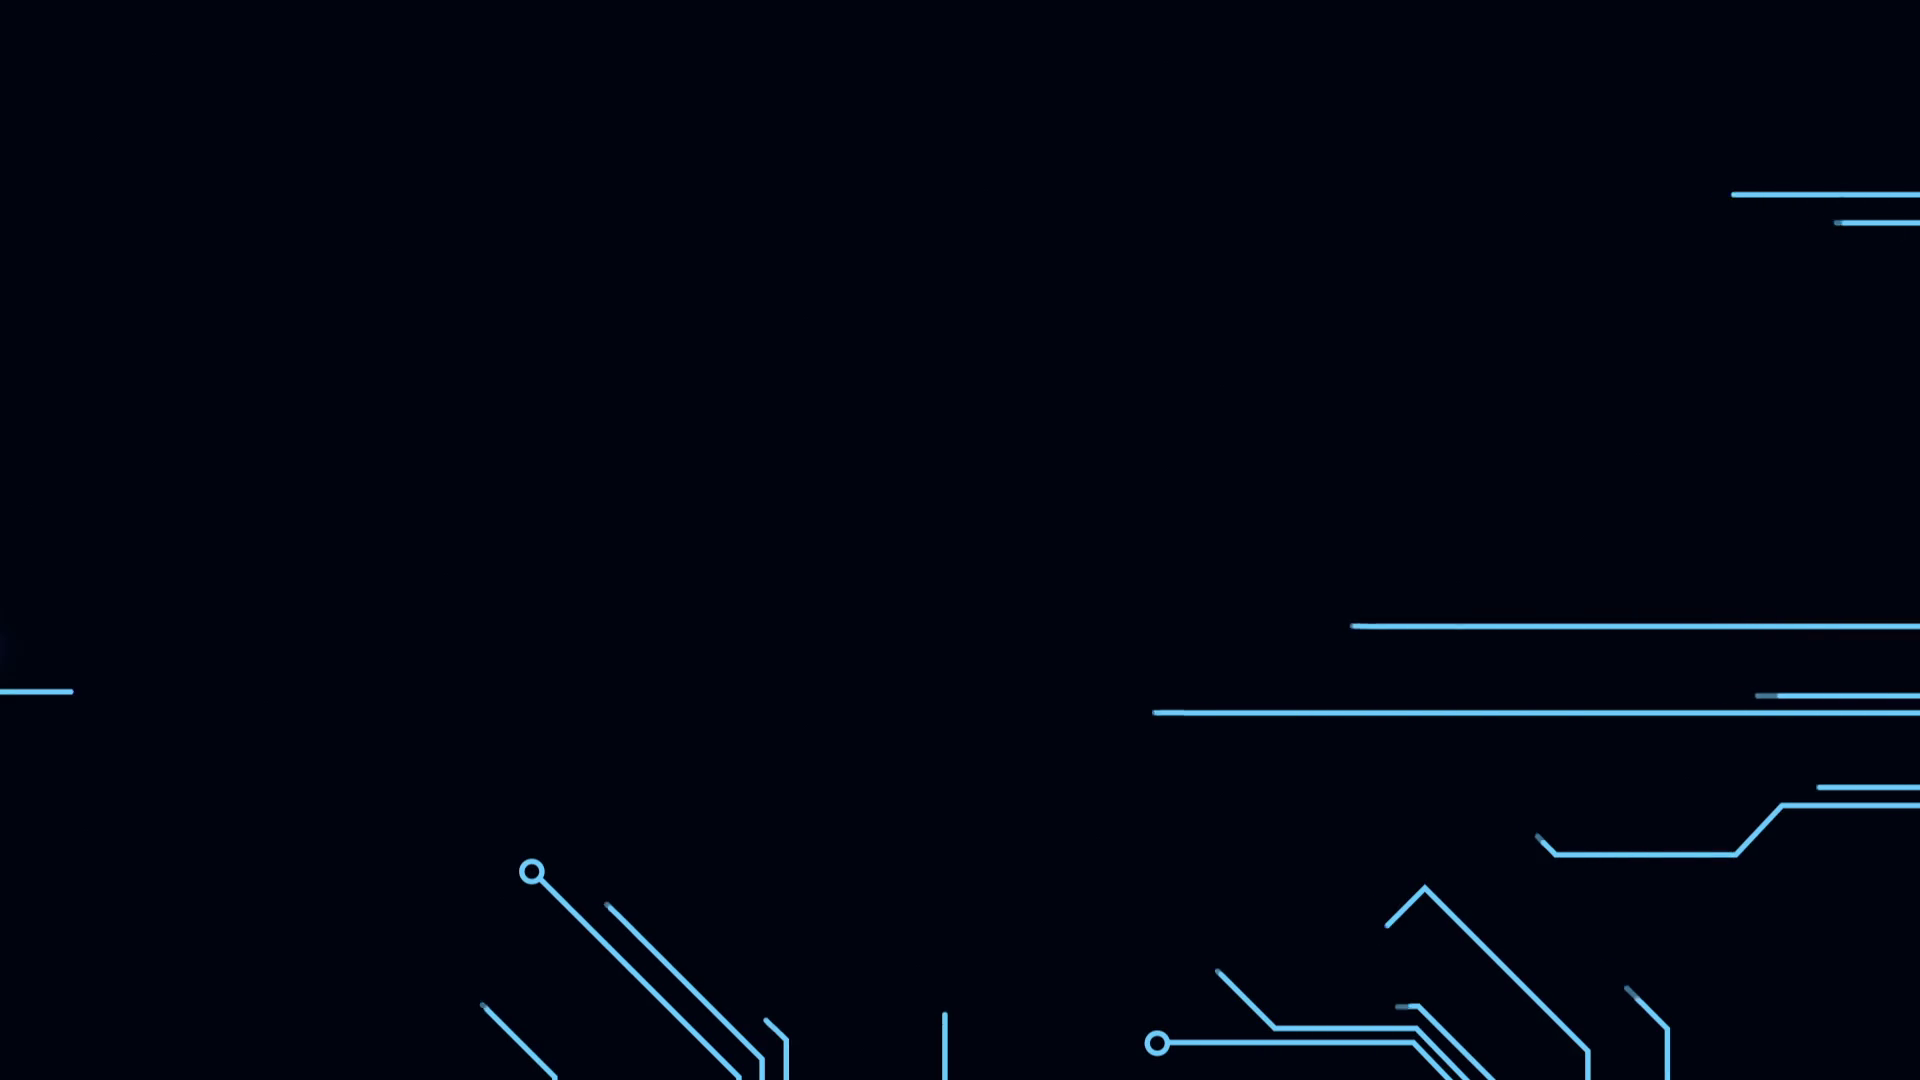
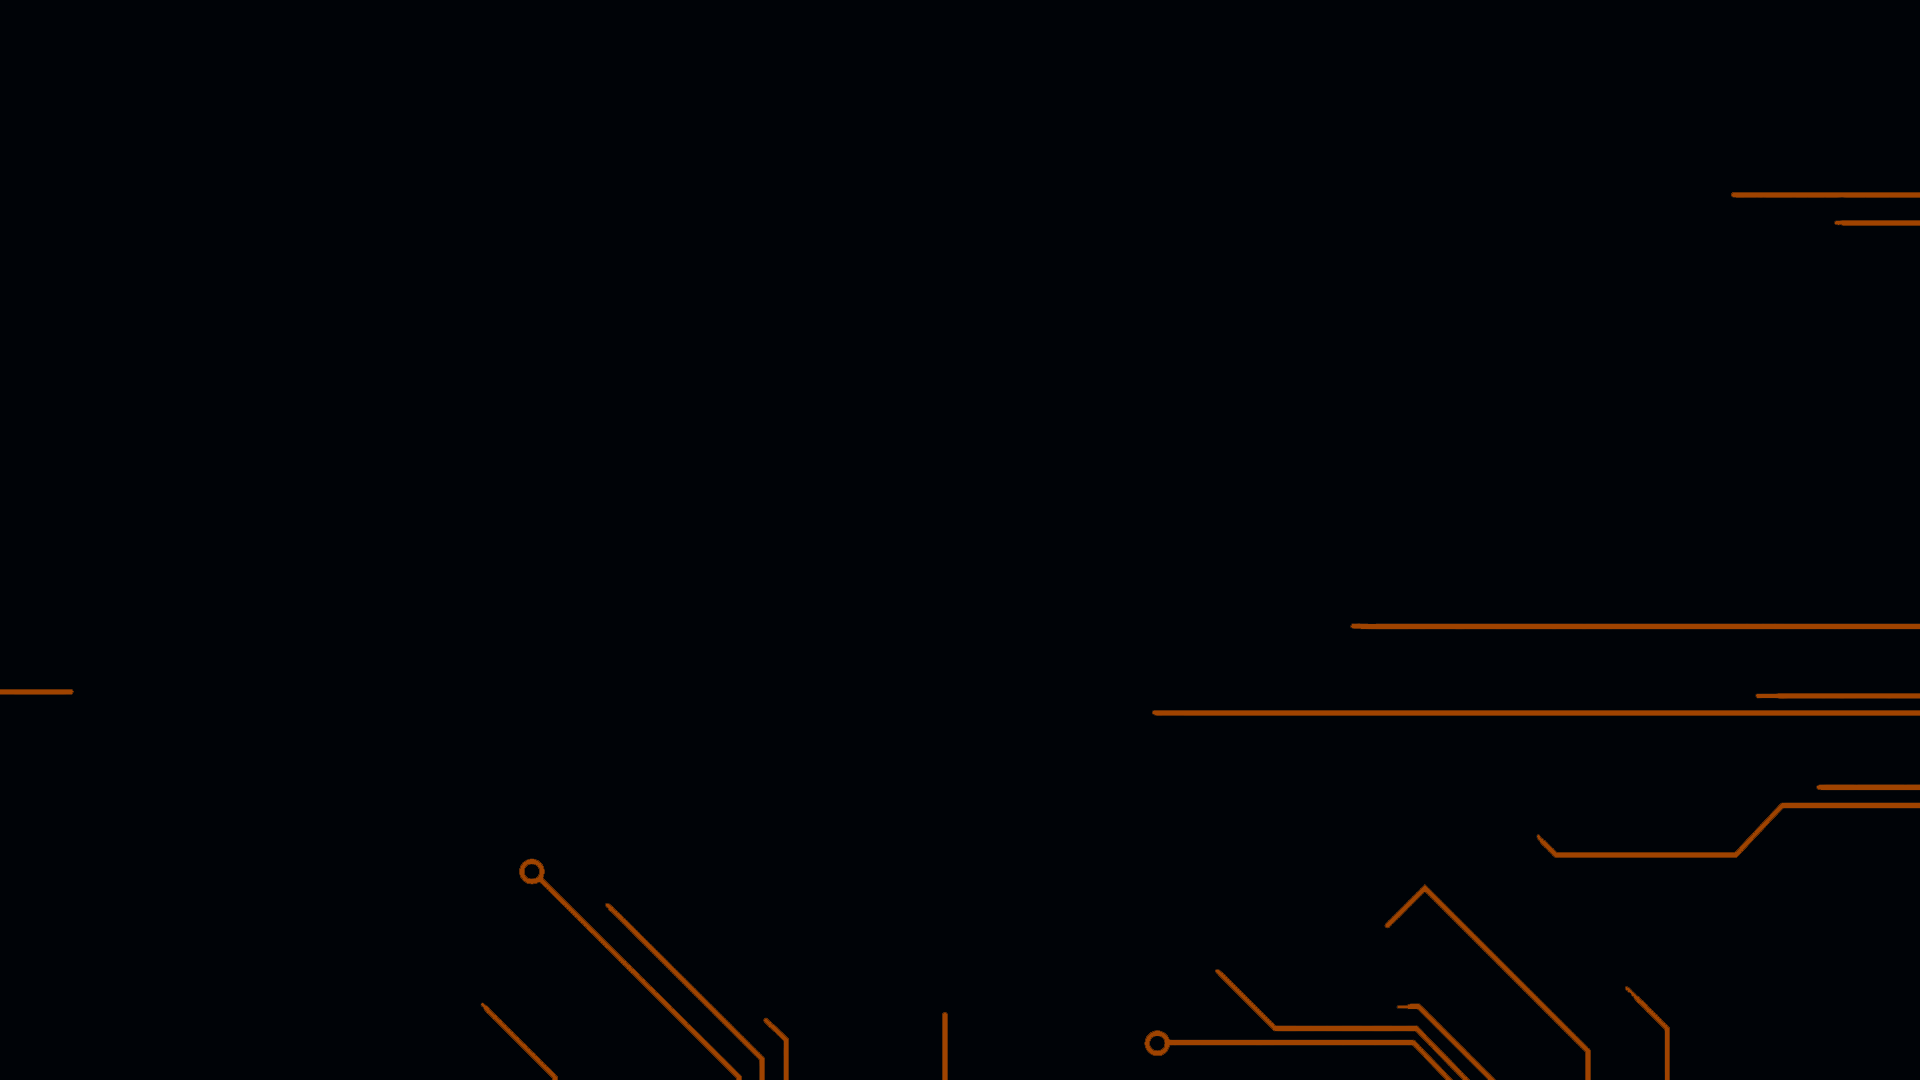
Updated the A S T H E T I C

diff --git a/main.css b/main.css
@@ -10,7 +10,7 @@ body{
     width: 100vw;
     height: 100vh;
     justify-items: center;
-  
+
 }
 .titlePage{
     background: url("images/backgroundReal.png");
@@ -31,21 +31,25 @@ body{
 }
 
 .buttons{
-    color: #69CCF9;
     display:grid;
     grid-template-columns: 33% 33% 33%;
 }
 
 .button{
     border: none;
-    color: whitesmoke;
-    background-color:#69CCF9;
+    color: #000307;
+    background-color:#9f4300;
+
     padding: 15px 32px;
     text-align: center;
     text-decoration: none;
     margin: 4px 2px;
     cursor: pointer;
     border-radius:10px;
+}
+
+a:hover {
+    color: #FFFFFF;
 }
 
 @media only screen and (max-width: 1000px) {
